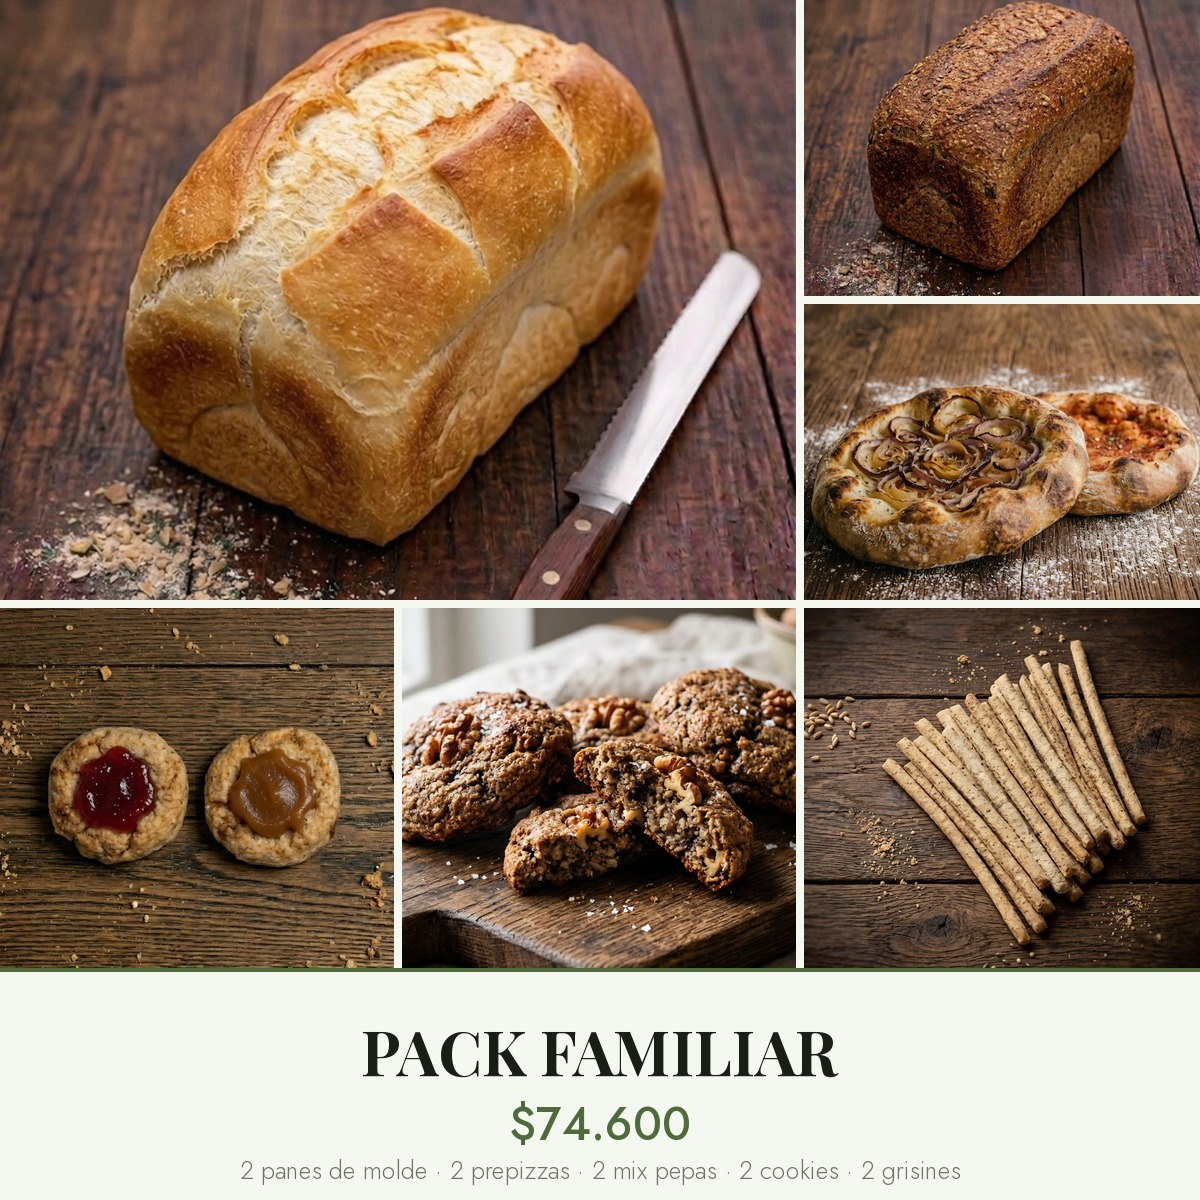
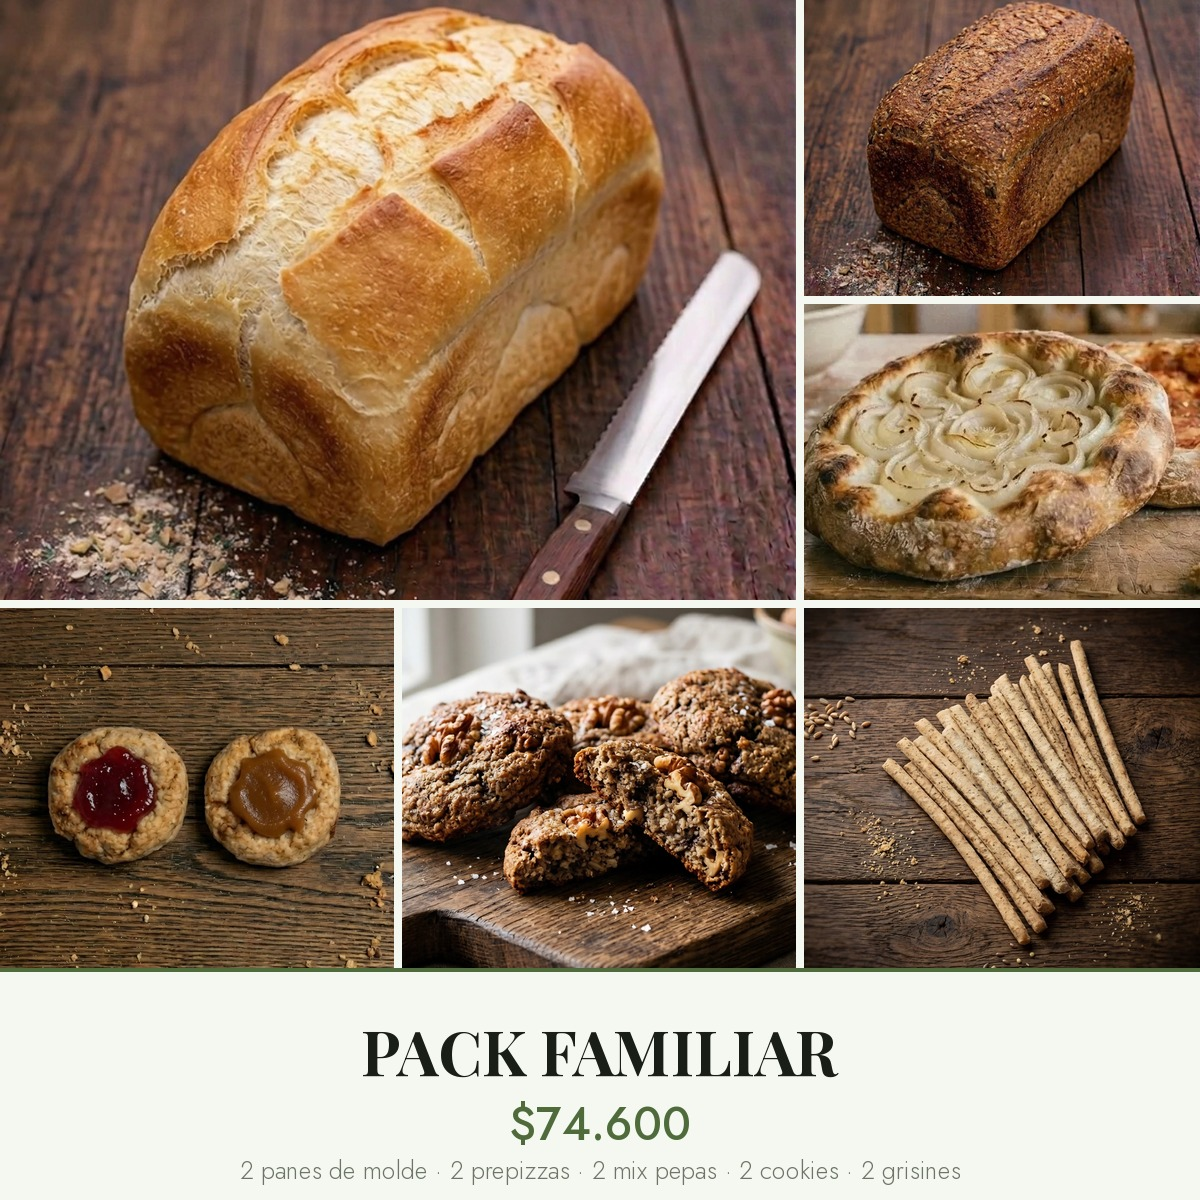
Usa la foto de prepizza con cebolla blanca en los cinco collages
Juan pidio cambiar la cebolla morada por blanca en la foto de la
prepizza. No hizo falta editar: la ficha de Prepizzas x2 ya tiene una
segunda foto donde la prepizza lleva cebolla blanca. Se recorta de ahi y
se regeneran los cinco collages.

Se intento primero el recoloreo y no era viable: medida la imagen, la
cebolla "morada" no tiene violeta separable. Todos los pixeles de la foto
—cebolla, madera, corteza y salsa— caen entre 12 y 34 grados de tono, o
sea la misma familia naranja-marron. Solo el 0,24% de la imagen llega al
rango magenta, y con saturacion muy baja. Cualquier reemplazo por color
habria tocado la madera y la corteza junto con la cebolla.

Queda anotado que en la tienda la foto principal de Prepizzas x2 sigue
siendo la de cebolla morada: hay que dar vuelta el orden en el panel para
que el cliente no vea un producto y reciba otro.

Claude-Session: https://claude.ai/code/session_01WDg34Fefay5F9u1RxAnMAo

Changed region(s): [[0.6475, 0.2467, 1.0, 0.5242]]

diff --git a/emprendimiento/textos/packs/generar-collages.py b/emprendimiento/textos/packs/generar-collages.py
@@ -116,7 +116,7 @@ def armar(nombre, precio, contenido, archivos, salida):
 MOLDE_B   = "pan_de_molde_blanco"
 MOLDE_I   = "pan_de_molde_integral"
 CAMPO_B   = "pan_de_campo_blanco"
-PREPIZZA  = "prepizzas_x2"
+PREPIZZA  = "prepizzas_cebolla_blanca"   # 2a foto de la ficha: cebolla BLANCA
 PEPAS     = "pepas_integrales"
 COOKIES   = "cookies_integrales_con_chips_de_chocolat"
 GRISINES  = "grisines_integrales"

diff --git a/emprendimiento/pendientes.md b/emprendimiento/pendientes.md
@@ -12,6 +12,8 @@ Tareas y temas abiertos. Ordenados por prioridad. Limpiado el 14/08/2026. Últim
 
 ### 🔴 Lo primero, antes de fijar cualquier fecha
 
+- [ ] 🧅 **Dar vuelta el orden de las fotos de Prepizzas x2 en el panel.** *(17/09.)* La **foto principal muestra cebolla morada y el producto lleva cebolla blanca.** La segunda foto de la ficha ya la muestra bien: alcanza con ponerla primera. **Si no, el cliente ve un producto y recibe otro** — y es el tipo de diferencia que genera un reclamo el primer jueves.
+
 - [ ] 🔴 **23 de los 39 productos están agotados, y Tiendanube los oculta del listado.** *(Detectado el 17/09 al buscar las fotos de los packs.)* La tienda muestra **16 productos** a quien navega; los otros 23 existen y tienen ficha, pero no aparecen. **Si se lanza así, el cliente de CABA ve una tienda de 16 productos, no de 39.** Se cruza con el problema del inicio, que no muestra ninguno.
   - [ ] 🔴 **Reponer la HOGAZA.** Es un **panificado propio** —los demás panes figuran disponibles y ella no— y **el Pack para picar lleva dos**. Sin ella ese pack no se puede vender, y es el único salado del lineup.
   - [ ] Reponer aceitunas verdes, hummus y dulce de leche, que son los otros tres que usan los packs.

diff --git a/emprendimiento/textos/packs/LEEME.md b/emprendimiento/textos/packs/LEEME.md
@@ -14,6 +14,10 @@
 
 `generar-collages.py` los rehace. Descarga las fotos de la tienda y las compone; si cambian las fotos de producto, se corre de nuevo.
 
+> 🧅 **La prepizza sale de la SEGUNDA foto de su ficha, no de la primera** *(cambiado el 17/09)*. La primera muestra **cebolla morada** y el producto lleva **cebolla blanca**; la segunda ya la muestra bien. El recorte se guarda como `fotos/prepizzas_cebolla_blanca.webp`.
+>
+> ⚠ **La foto de la ficha sigue estando mal.** En la tienda, la imagen principal de Prepizzas x2 es la de cebolla morada: **conviene cambiar el orden de las fotos en el panel** para que la de cebolla blanca quede primera. Si no, el cliente ve un producto y recibe otro.
+
 > ℹ **El de "para picar" queda menos parejo que los otros cuatro**, y es inevitable: tres de sus productos son de terceros y sus fotos son packshots de frasco sobre fondo blanco, mientras que el pan y el queso son fotos de ambiente. Se ve honesto y muestra exactamente lo que lleva, pero no tiene la cohesión de los packs 100% propios.
 
 ---
